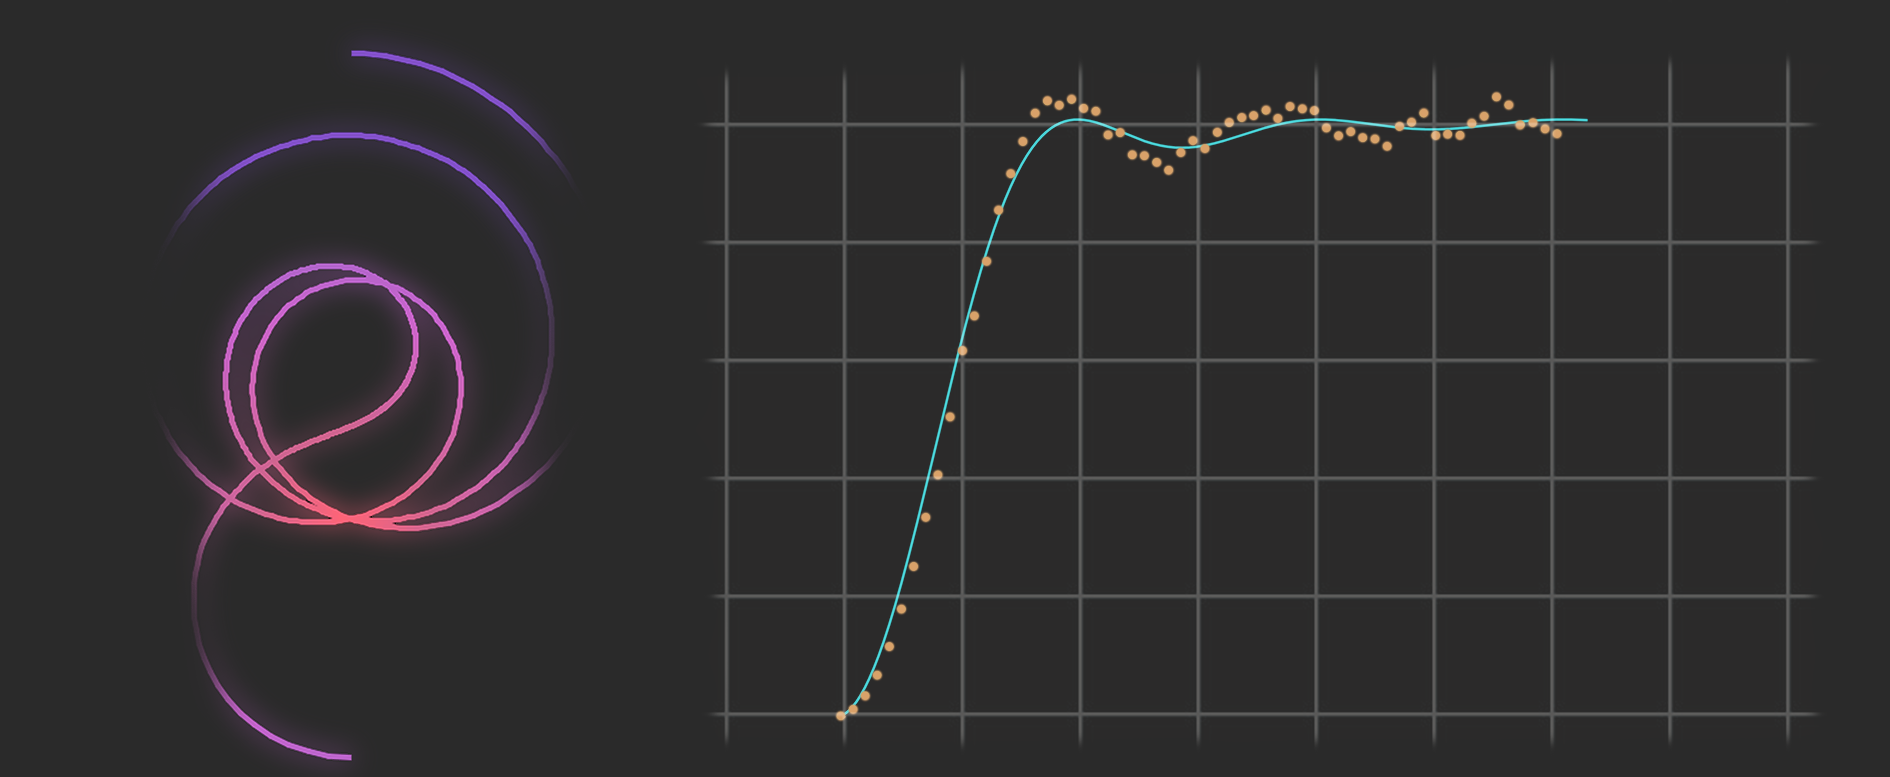
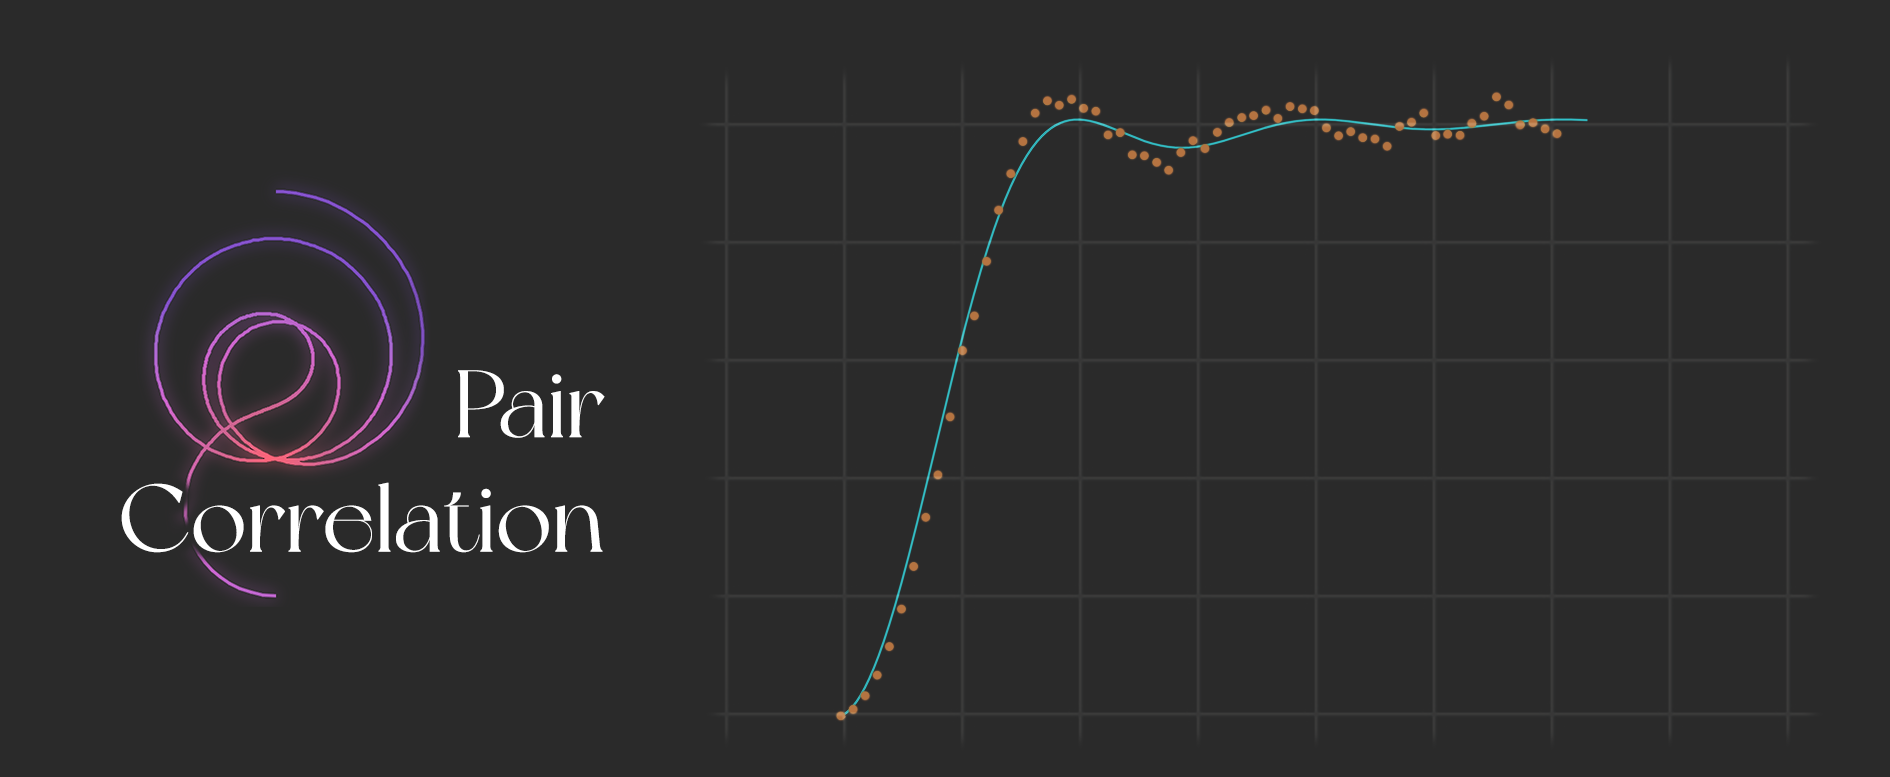
update

diff --git a/index.js b/index.js
@@ -28,9 +28,12 @@ function attachLinks(){
 attachLinks();
 
 
+
 // Vibe coded slide projects:
 const links_base = document.getElementById("links_base");
 const VISIBLE = 3;                        // slides shown at once
+let mainProjectInShowcase = 1 + VISIBLE;
+const numArticles = links_base.children.length;
 
 const slides = Array.from(links_base.children);
 const count = slides.length;              // number of real slides
@@ -62,19 +65,39 @@ function jump_to_index(index) {
 // Start on the first real slide (the real slides begin after the VISIBLE prepended clones)
 jump_to_index(VISIBLE);
 
-let scroll_timer;
-links_base.addEventListener("scroll", () => {
-    clearTimeout(scroll_timer);
-    scroll_timer = setTimeout(() => {
-        const i = Math.round(links_base.scrollLeft / slide_step());
-        if (i < VISIBLE) jump_to_index(i + count);                  // in the left clones
-        else if (i >= VISIBLE + count) jump_to_index(i - count);    // in the right clones
-    }, 100);
-});
+function updateShowcase(){
+    if(mainProjectInShowcase == links_base.children.length - VISIBLE){
+        links_base.scroll({ left: slide_step(), behavior: "instant" });
+        console.log("no");
+    }
+    else if(mainProjectInShowcase == VISIBLE - 1){
+        links_base.scroll({ left: (numArticles + 2) * slide_step(), behavior: "instant" });
+        console.log("yes");
+    }
+
+    if(mainProjectInShowcase < VISIBLE)
+        mainProjectInShowcase = links_base.children.length - 1 - VISIBLE;
+    else if(mainProjectInShowcase >= links_base.children.length - VISIBLE)
+        mainProjectInShowcase = VISIBLE;
+    for(let i = 0; i < links_base.children.length; i++){
+        if(i == mainProjectInShowcase || i - numArticles == mainProjectInShowcase || i + numArticles == mainProjectInShowcase)
+            links_base.children[i].classList.add('main');
+        else
+            links_base.children[i].classList.remove('main');
+    }
+    links_base.scroll({ left: (mainProjectInShowcase - 1) * slide_step(), behavior: "smooth" });
+}
+updateShowcase();
 
 document.getElementById("slide_left").addEventListener("click", () => {
-    links_base.scrollBy({ left: -slide_step(), behavior: "smooth" });
+    //links_base.scrollBy({ left: -slide_step(), behavior: "smooth" });
+    mainProjectInShowcase--;
+    updateShowcase();
+    
 });
 document.getElementById("slide_right").addEventListener("click", () => {
-    links_base.scrollBy({ left: slide_step(), behavior: "smooth" });
+    //links_base.scrollBy({ left: slide_step(), behavior: "smooth" });
+    mainProjectInShowcase++;
+    updateShowcase();
 });
+

diff --git a/About/index.html b/About/index.html
@@ -1,0 +1,40 @@
+<!DOCTYPE html>
+<html lang="en">
+<head>
+    <meta charset="UTF-8">
+    <meta name="viewport" content="width=device-width, initial-scale=1.0">
+    <link rel="stylesheet" type="text/css" href="../../article.css">
+    <link rel="icon" type="image/png" href="../../zeta_icon_32.png">
+    <link href="https://fonts.cdnfonts.com/css/newyork" rel="stylesheet">
+    <link href="https://fonts.cdnfonts.com/css/kepler-std-3" rel="stylesheet">
+    <link href="https://fonts.cdnfonts.com/css/cmu-serif" rel="stylesheet">
+    <script>
+        MathJax = {
+            tex: {
+                inlineMath: [['$', '$'], ['\\(', '\\)']],
+                tags: 'ams'
+            },
+            svg:{
+                fontCache: 'global'
+            }
+        }
+    </script>
+    <script id="MathJax-script" async src="https://cdn.jsdelivr.net/npm/mathjax@3/es5/tex-mml-chtml.js"></script>
+	<title>Maze Generation</title>
+</head>
+<body>
+<div id="content">
+    <div class="page">
+        <h2 id="1">Employment history</h2>
+        <ul>
+            <li>Host and Writer (March 2025 - Now) at University Library of SDU</li>
+            <li>Jambuster (September 2024 - August 2025) at Beumer Group</li>
+            <li>Temp (August 2024 - Now) at JKS</li>
+            <li>Retail Worker (May 2022 - December 2023) at Rema 1000</li>
+            <li>Newspaper Deliverer (2018-2019) at BlivOmdeler</li>
+        </ul>
+        <h2 id="2">School</h2>
+        I'm currently pursuing my Bachelor's degree in Computer Science at SDU.<br>
+    </div>
+</body>
+</html>

diff --git a/home.css b/home.css
@@ -1,5 +1,8 @@
 body {
     margin: 0;
+    background-color: #101010;
+    font-family: 'Montserrat';
+    font-weight: 10;
 }
 
 #links_base{
@@ -16,6 +19,16 @@ body {
     align-items: flex-start;
     width: 200px;
     width: 50%;
+    filter: blur(1px);
+    transition-duration: 0.3s;
+    scale: 0.8;
+    opacity: 0.8;
+}
+.article-container.main {
+    background-color: rgb(255, 255, 255, 0);
+    filter: blur(0);
+    scale: 1;
+    opacity: 1;
 }
 .article-img {
     display: block;
@@ -33,7 +46,7 @@ body {
     width: 100%;
     height: 80px;
     display: block;
-    background-color: #101010;
+    background-color: #070707;
 }
 
 .inner_header {
@@ -54,6 +67,7 @@ body {
     height: 100%;
     display: table-cell;
     vertical-align: middle;
+    font-weight: 10;
 }
 
 .navigation {
@@ -106,6 +120,7 @@ body {
     display: flex;           /* <flex> is not a real HTML element, so it needs this */
     flex-direction: column;
     align-items: center;
+    color: #e9e9e9;
 }
 
 
@@ -117,6 +132,7 @@ body {
 
 .slider {
     position: relative;
+    top: 100px;
 }
 .slider button {
     position: absolute;
@@ -124,6 +140,12 @@ body {
     transform: translateY(-50%);
     z-index: 1;
     cursor: pointer;
+    height: 100%;
+    width: 33%;
+    background-color: #ffffff00;
+    border: 0;
+    font-size: 50px;
 }
-#slide_left  { left: 10%; }
-#slide_right { right: 10%; }
+#slide_left  { left: 0px; }
+#slide_right { right: 0px; }
+

diff --git a/blogs.js b/blogs.js
@@ -1,3 +1,3 @@
-const blogLinks = ['Blogs/Amortized Analysis/index.html', 'Blogs/Automaton Filter/index.html', 'Blogs/HyperLogLog/index.html', 'Blogs/Maze Generation/index.html', 'Blogs/Pair Correlation/index.html', 'Blogs/Sorting Algorithms/index.html']
-const shortNames = ['Amortized Analysis', 'Automaton Filter', 'HyperLogLog', 'Maze Generation', 'Pair Correlation', 'Sorting Algorithms']
-const titles = ['Introduction to ammortized analysis', 'Cellular Automatons as Image Filters', 'The HyperLogLog datastructure', 'Maze Generation Algorithms', "Montgomery's Pair Correlation Conjecture", 'A Thorough Analysis of Known Sorting Algorithms']
+const blogLinks = ['Blogs/Automaton Filter/index.html', 'Blogs/HyperLogLog/index.html', 'Blogs/Maze Generation/index.html', 'Blogs/Pair Correlation/index.html', 'Blogs/Sorting Algorithms/index.html']
+const shortNames = ['Automaton Filter', 'HyperLogLog', 'Maze Generation', 'Pair Correlation', 'Sorting Algorithms']
+const titles = ['Cellular Automatons as Image Filters', 'The HyperLogLog datastructure', 'Maze Generation Algorithms', "Montgomery's Pair Correlation Conjecture", 'A Thorough Analysis of Known Sorting Algorithms']

diff --git a/Blogs/Maze Generation/index.html b/Blogs/Maze Generation/index.html
@@ -46,7 +46,7 @@
         <keyword class="keyword">if</keyword> <keyword class="built-in">len</keyword>(neighbours) <keyword class="operation">=</keyword><keyword class="operation">=</keyword> <keyword class="literal">0</keyword>
             path.<keyword class="built-in">pop</keyword>()
         <keyword class="keyword">else</keyword>
-            pickedNeighbour <keyword class="operation">=</keyword> neighbours[<keyword class="built-in">floor</keyword>(<keyword class="built-in">random</keyword>(<keyword class="literal">0</keyword>, <keyword class="built-in">len</keyword>(neighbours)))]
+            pickedNeighbour <keyword class="operation">=</keyword> neighbours[<keyword class="built-in">floor</keyword>(<keyword class="built-in">random</keyword>() <keyword class="operation">*</keyword> <keyword class="built-in">len</keyword>(neighbours))]
             <keyword class="variable">maze</keyword>.<keyword class="built-in">connectCells</keyword>(pathEnd, pickedNeighbour)
             path.<keyword class="built-in">append</keyword>(pickedNeighbour)
         <keyword class="keyword">end</keyword><keyword class="keyword">if</keyword>

diff --git a/index.html b/index.html
@@ -6,6 +6,7 @@
     <title>Website</title>
     <link rel="stylesheet" type="text/css" href="home.css">
     <link rel="icon" type="image/png" href="../../zeta_icon_32.png">
+    <link href="https://fonts.googleapis.com/css?family=Montserrat:400,800" rel="stylesheet">
 </head>
 <body>
     <div class="header">
@@ -16,16 +17,16 @@
 
             <ul class="navigation">
                 <a href="/"><li>Home</li></a>
-                <a ><li>About</li></a>
+                <a href="/About/index.html"><li>About me</li></a>
                 <a><li>Portfolio</li></a>
                 <a><li>Links</li></a>
             </ul>
         </div>
     </div>
-    <div class="slider">
-        <button id="slide_left">&#10094;</button>
+    <div class="slider" id="projects">
+        <button id="slide_left"></button>
         <div id="links_base"></div>
-        <button id="slide_right">&#10095;</button>
+        <button id="slide_right"></button>
     </div>
 </body>
 </html>

diff --git a/BlogFiles/maze_generation.tex b/BlogFiles/maze_generation.tex
@@ -21,7 +21,7 @@
         if len(neighbours) == 0
             path.##pop##()
         else
-            pickedNeighbour = neighbours[##floor##(##random##(0, len(neighbours)))]
+            pickedNeighbour = neighbours[##floor##(##random##() * len(neighbours))]
             ~maze~.##connectCells##(pathEnd, pickedNeighbour)
             path.##append##(pickedNeighbour)
         endif
